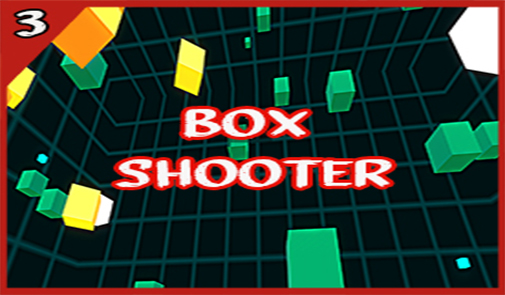
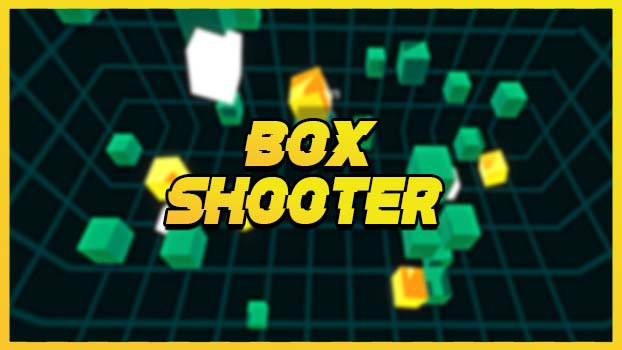
Portfolio Updates

diff --git a/index.html b/index.html
@@ -29,7 +29,7 @@
 			<section id="banner">
 				<div class="inner">
 					<div class="logo"><span class="icon fa-gem"></span></div>
-					<h2>My Portfolio</h2>
+					<h2>Portfolio</h2>
 					<p>A Showcase of my projects and my abilities !! <a href="http://html5up.net"></a></p>
 				</div>
 			</section>
@@ -60,7 +60,7 @@
 						<p>As a student of Computer Science I learnt and worked on projects which helped me gain a basic knowledge in Game development and to decide that it is the right path for me to work upon. Here, i have listed some of the basic projects and code snippets. </p>
 						<section class="features">
 							<article>
-								<a href="#" class="image"><img src="images/obstaclec.jpg" alt="" width="350" height="350" /></a>
+								<a href="#" class="image"><img src="images/ObstacleCourse.jpg" alt="" width="500" height="250" /></a>
 								<h3 class="major">The Obstacle Course</h3>
 								<p>
 									Basic 3D Endless motion video game using Unity and C# - The player needs to move through a straight path avoiding obstacles
@@ -69,7 +69,7 @@
 								<a href="https://github.com/PrithviDhinagar/Obstacle-course" class="special">Learn more</a>
 							</article>
 							<article>
-								<a href="#" class="image"><img src="images/Rollermadness.jpg" alt="" width="350" height="350" /></a>
+								<a href="#" class="image"><img src="images/RollerMadness.jpg" alt="" width="500" height="250" /></a>
 								<h3 class="major">Roller Madness</h3>
 								<p>
 									Roller madness is a 3D game filled with coins, a ball and a group of infinite cube shaped enemies with a max of 2 basic levels.
@@ -78,13 +78,13 @@
 								<a href="https://github.com/PrithviDhinagar/Roller-Madness" class="special">Learn more</a>
 							</article>
 							<article>
-								<a href="#" class="image"><img src="images/boxshooter.jpg" alt="" /></a>
+								<a href="#" class="image"><img src="images/BoxShooter.jpg" alt="" width="500" height="250" /></a>
 								<h3 class="major">Box Shooter</h3>
 								<p>Box Shooter is a First Person Shooter(FPS) Game where you get a chance to score points by shooting at the cube targets which are moving horizontally and vertically.</p>
 								<a href="https://github.com/PrithviDhinagar/Box-Shooter" class="special">Learn more</a>
 							</article>
 							<article>
-								<a href="#" class="image"><img src="images/solarsystem.jpg" alt="" /></a>
+								<a href="#" class="image"><img src="images/SolarSystem.jpg" alt="" width="500" height="250" /></a>
 								<h3 class="major">Solar System Simulation</h3>
 								<p>A basic simulation of solar system using Unity with a touch of reality with the help of lighting, physics and planet materials.</p>
 								<a href="https://github.com/PrithviDhinagar/SolarSystemSimulation" class="special">Learn more</a>
